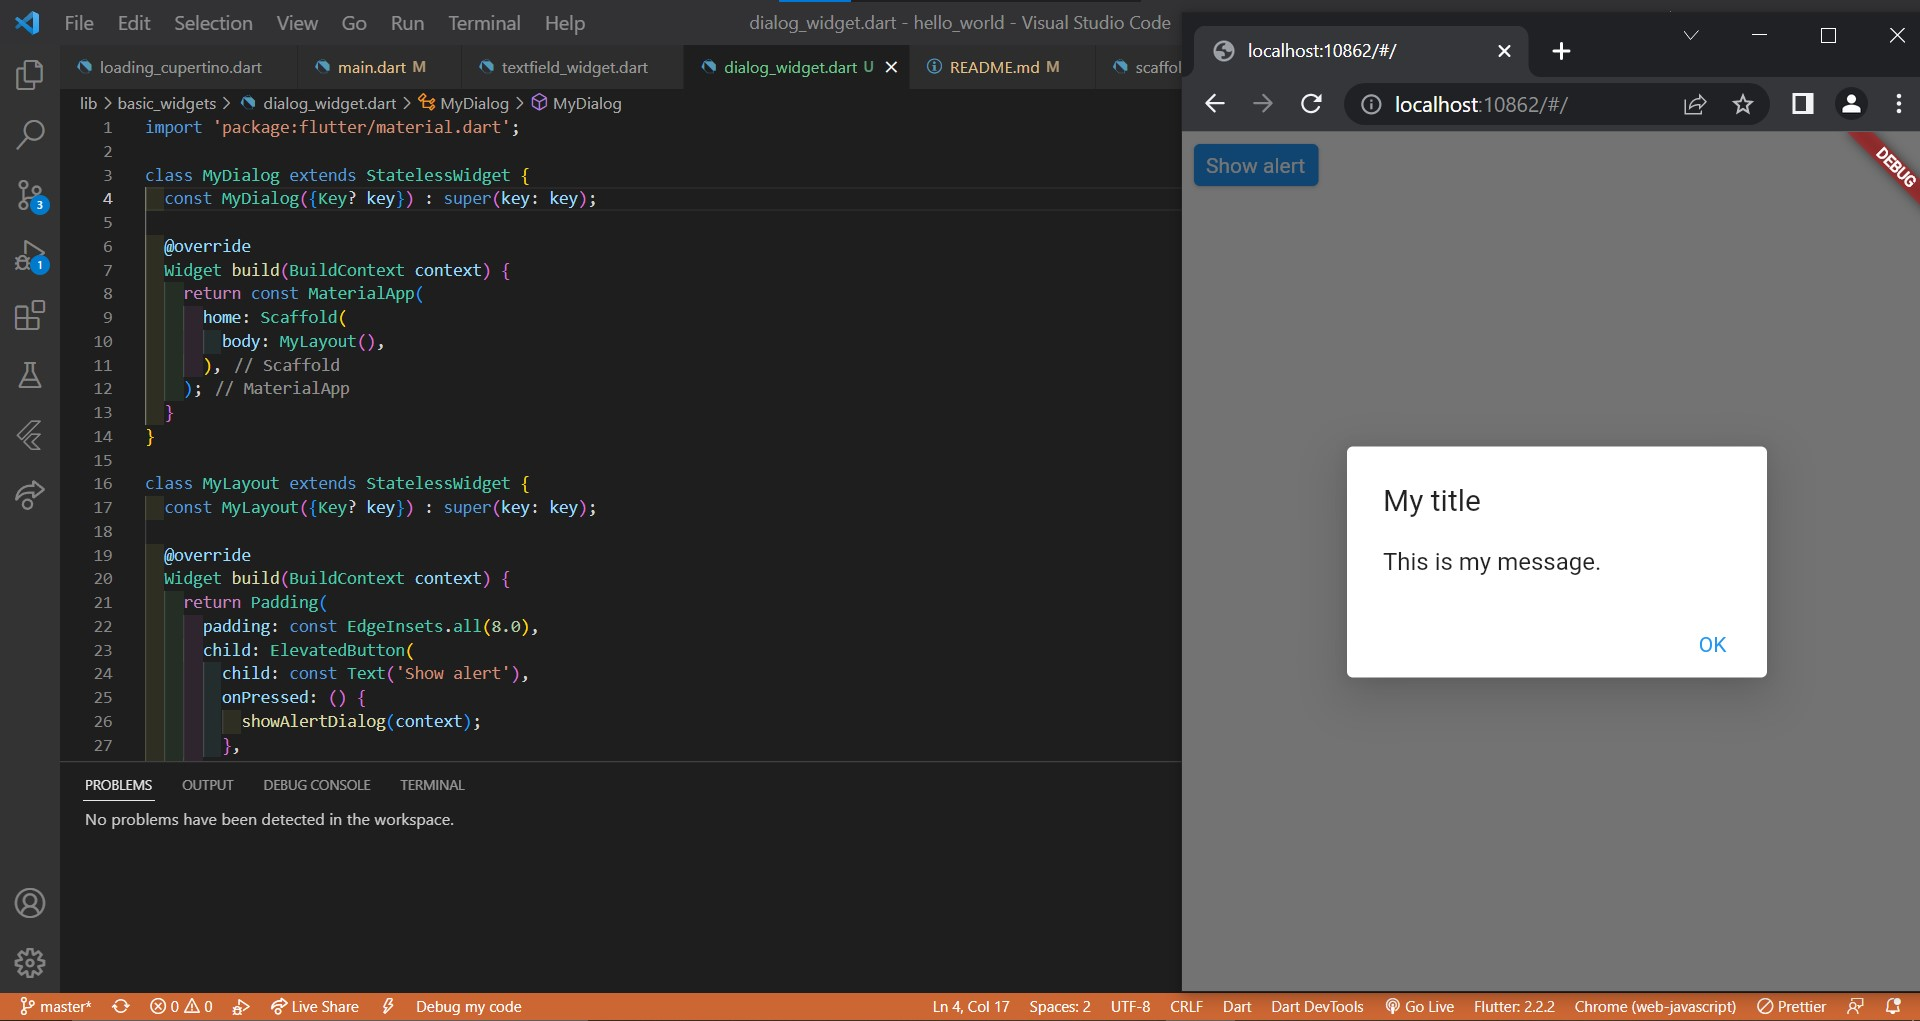
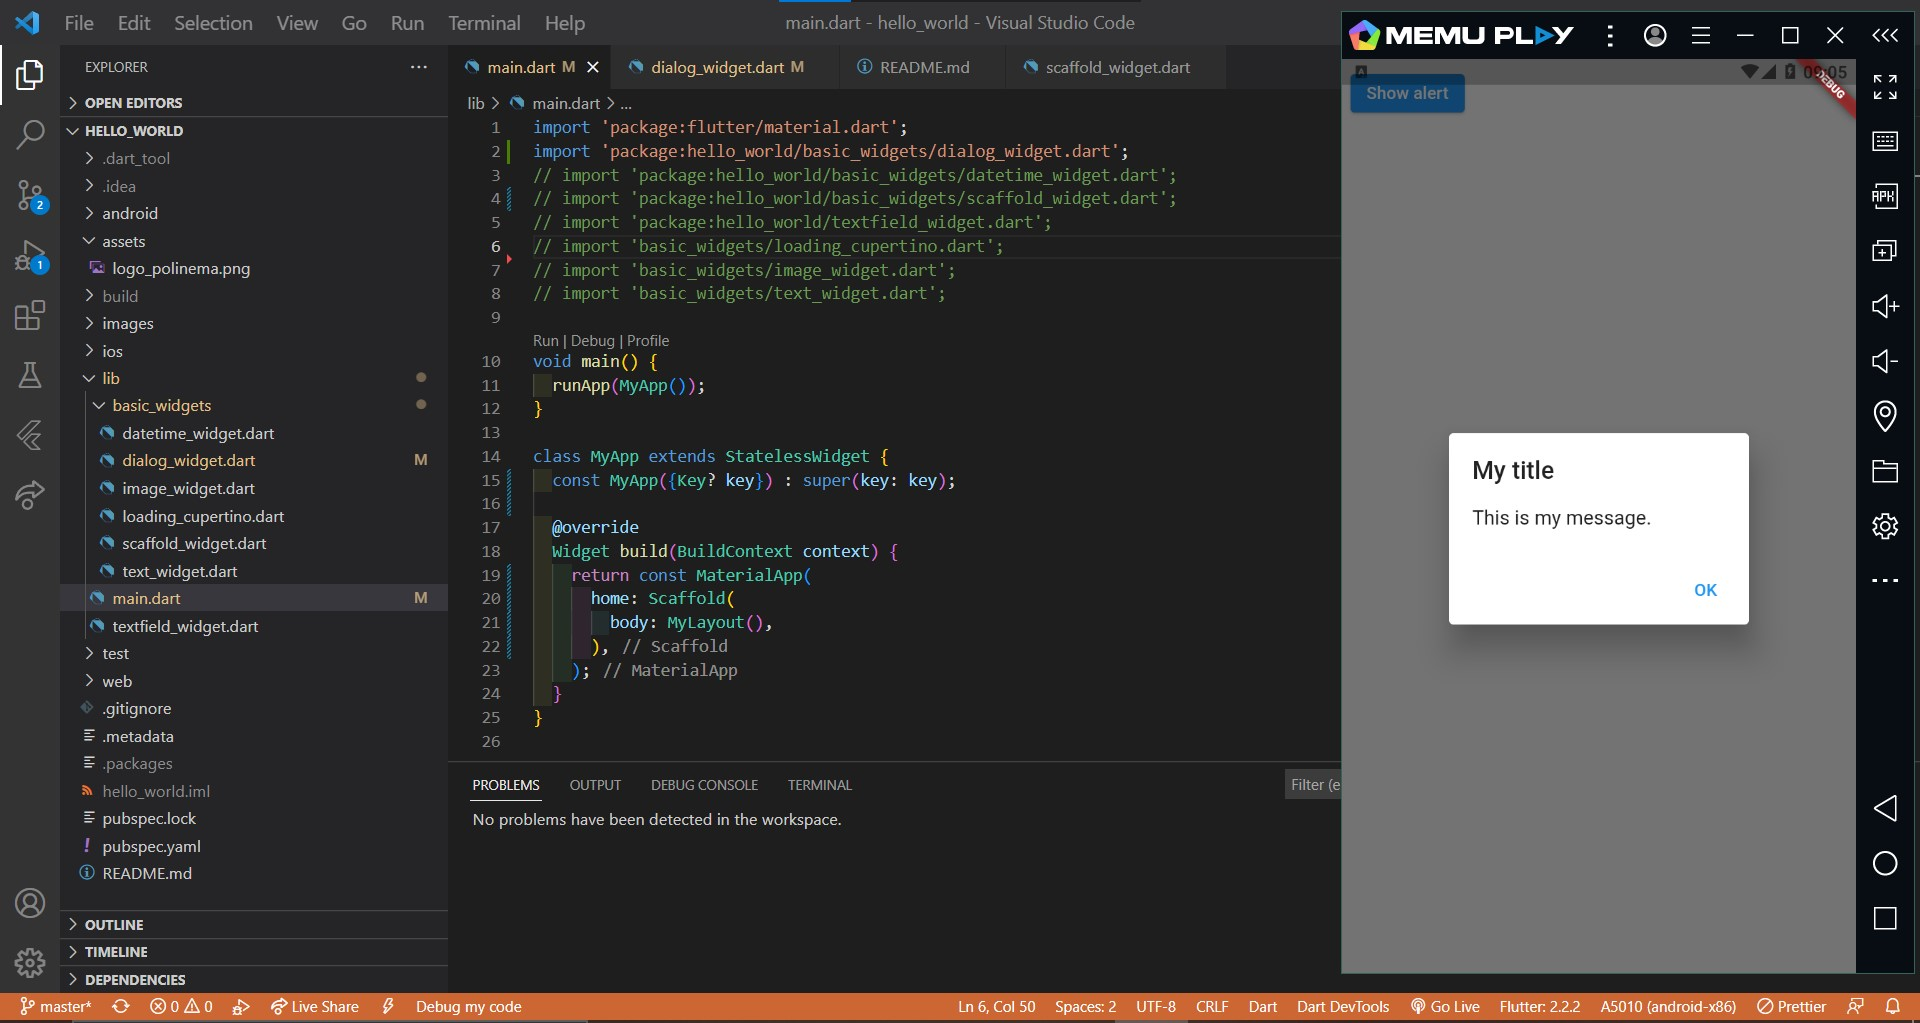
update dialogwidget

diff --git a/lib/main.dart b/lib/main.dart
@@ -1,10 +1,9 @@
 import 'package:flutter/material.dart';
+import 'package:hello_world/basic_widgets/dialog_widget.dart';
 // import 'package:hello_world/basic_widgets/datetime_widget.dart';
-import 'package:hello_world/basic_widgets/scaffold_widget.dart';
-// import 'package:hello_world/basic_widgets/dialog_widget.dart';
+// import 'package:hello_world/basic_widgets/scaffold_widget.dart';
 // import 'package:hello_world/textfield_widget.dart';
 // import 'basic_widgets/loading_cupertino.dart';
-// import 'basic_widgets/scaffold_widget.dart';
 // import 'basic_widgets/image_widget.dart';
 // import 'basic_widgets/text_widget.dart';
 
@@ -13,13 +12,14 @@ void main() {
 }
 
 class MyApp extends StatelessWidget {
-  // This widget is the root of your application.
+  const MyApp({Key? key}) : super(key: key);
+
   @override
   Widget build(BuildContext context) {
-    return MaterialApp(
-      title: 'Flutter Demo',
-      theme: ThemeData(primarySwatch: Colors.blue),
-      home: const MyScaffold(),
+    return const MaterialApp(
+      home: Scaffold(
+        body: MyLayout(),
+      ),
     );
   }
 }

diff --git a/lib/basic_widgets/dialog_widget.dart b/lib/basic_widgets/dialog_widget.dart
@@ -1,18 +1,5 @@
 import 'package:flutter/material.dart';
 
-class MyDialog extends StatelessWidget {
-  const MyDialog({Key? key}) : super(key: key);
-
-  @override
-  Widget build(BuildContext context) {
-    return const MaterialApp(
-      home: Scaffold(
-        body: MyLayout(),
-      ),
-    );
-  }
-}
-
 class MyLayout extends StatelessWidget {
   const MyLayout({Key? key}) : super(key: key);
 
